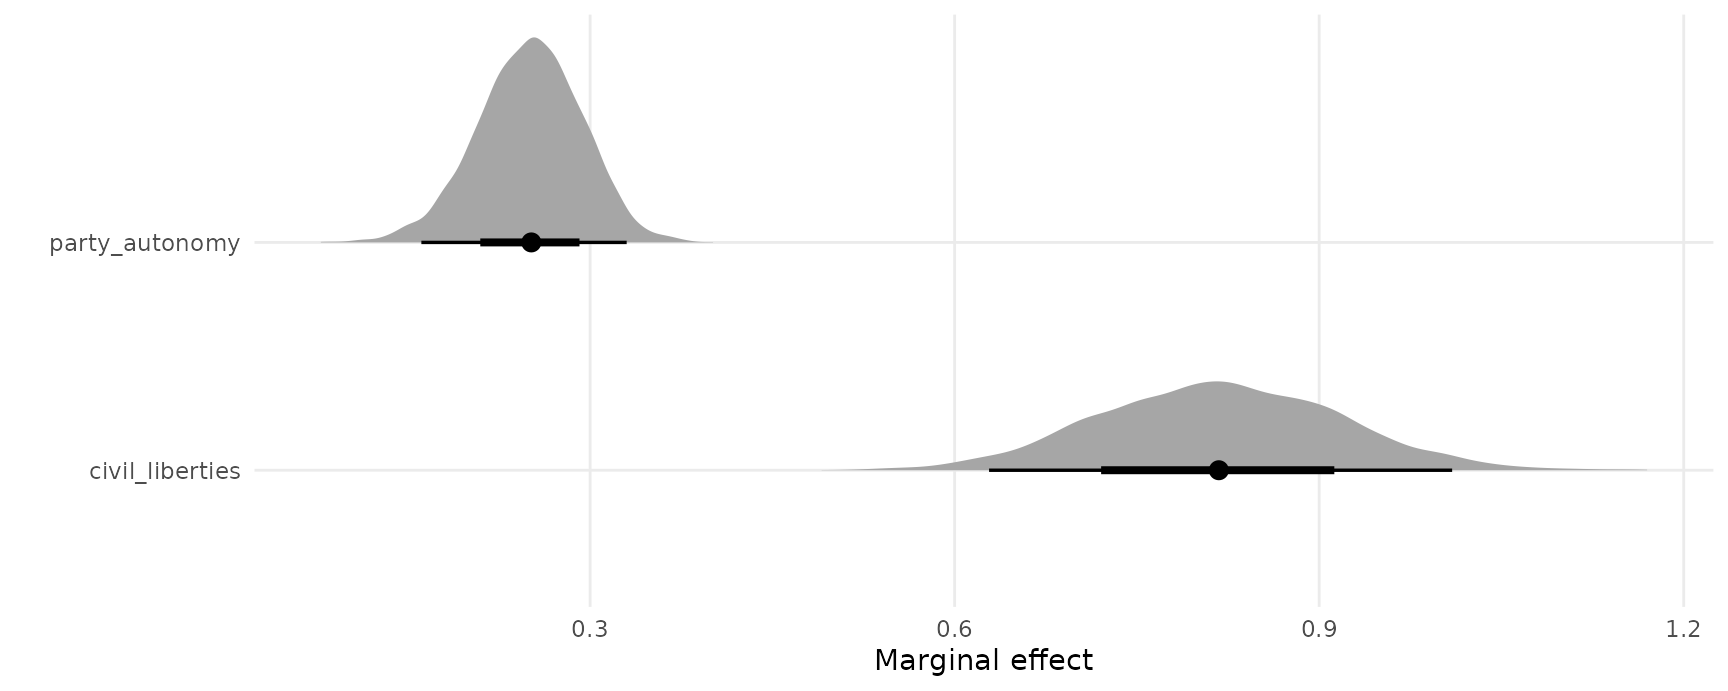
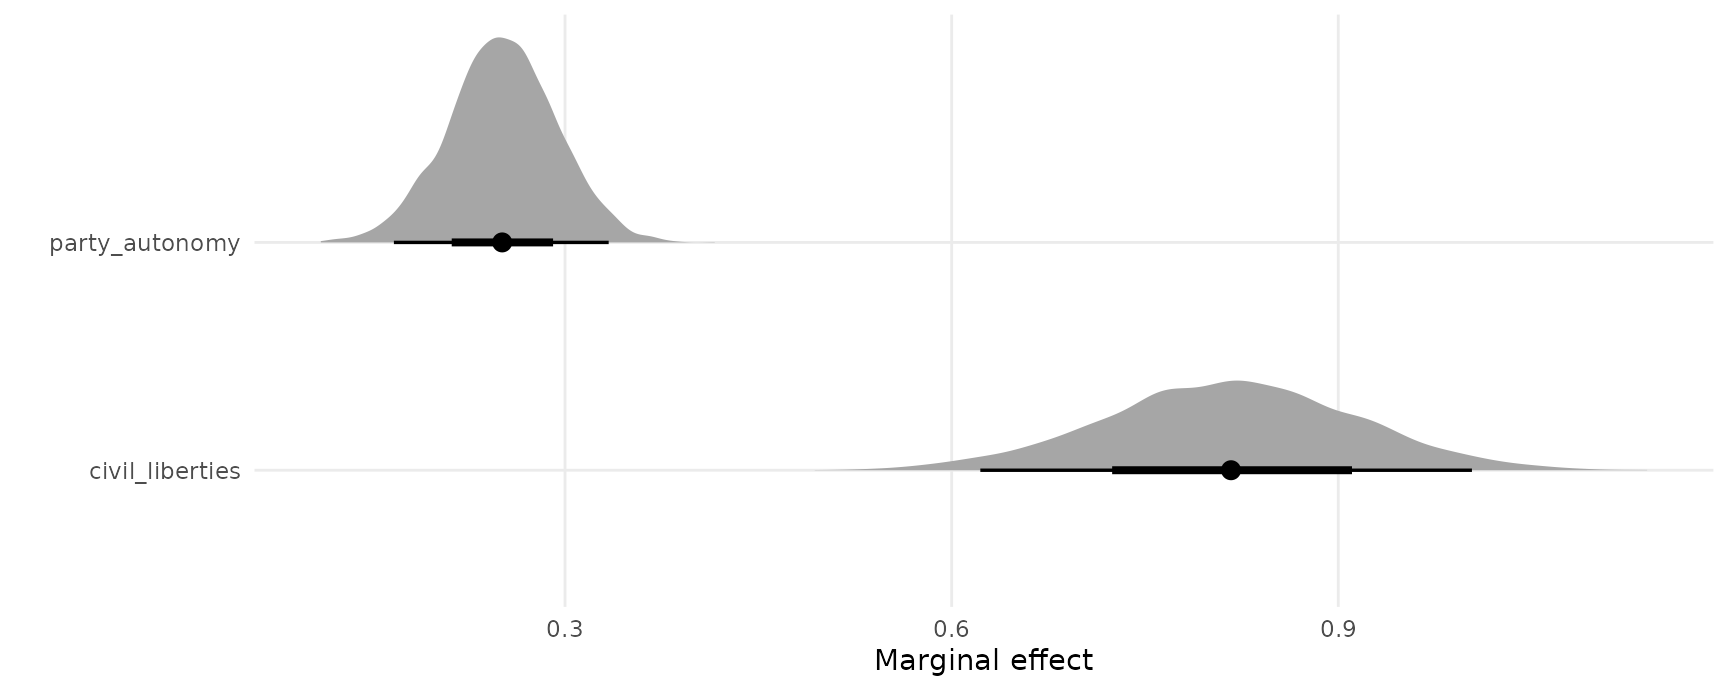
Built site for marginaleffects: 0.5.0.9000@

diff --git a/articles/brms.html b/articles/brms.html
@@ -129,12 +129,12 @@
 <code class="sourceCode R"><span class="va">pred</span> <span class="op">&lt;-</span> <span class="fu"><a href="../reference/predictions.html">predictions</a></span><span class="op">(</span><span class="va">mod</span><span class="op">)</span>
 <span class="fu"><a href="https://rdrr.io/r/utils/head.html" class="external-link">head</a></span><span class="op">(</span><span class="va">pred</span><span class="op">)</span>
 <span class="co">#&gt;   rowid     type predicted  conf.low conf.high survived woman     age</span>
-<span class="co">#&gt; 1     1 response 0.9367252 0.9048281 0.9592818        1     1 29.0000</span>
-<span class="co">#&gt; 2     2 response 0.8490403 0.7470613 0.9185068        1     0  0.9167</span>
-<span class="co">#&gt; 3     3 response 0.9427969 0.8930757 0.9710823        0     1  2.0000</span>
-<span class="co">#&gt; 4     4 response 0.5160377 0.4301996 0.5969262        0     0 30.0000</span>
-<span class="co">#&gt; 5     5 response 0.9376422 0.9062824 0.9606035        0     1 25.0000</span>
-<span class="co">#&gt; 6     6 response 0.2739226 0.2042204 0.3534595        1     0 48.0000</span>
+<span class="co">#&gt; 1     1 response 0.9371500 0.9047012 0.9592970        1     1 29.0000</span>
+<span class="co">#&gt; 2     2 response 0.8499793 0.7437888 0.9185484        1     0  0.9167</span>
+<span class="co">#&gt; 3     3 response 0.9426280 0.8933272 0.9706729        0     1  2.0000</span>
+<span class="co">#&gt; 4     4 response 0.5143200 0.4282650 0.5984488        0     0 30.0000</span>
+<span class="co">#&gt; 5     5 response 0.9379316 0.9059309 0.9601320        0     1 25.0000</span>
+<span class="co">#&gt; 6     6 response 0.2723805 0.2017168 0.3531133        1     0 48.0000</span>
 <span class="co">#&gt;   passengerClass</span>
 <span class="co">#&gt; 1            1st</span>
 <span class="co">#&gt; 2            1st</span>
@@ -153,30 +153,30 @@
                                        passengerClass <span class="op">=</span> <span class="fu"><a href="https://rdrr.io/r/base/c.html" class="external-link">c</a></span><span class="op">(</span><span class="st">"1st"</span>, <span class="st">"2nd"</span>, <span class="st">"3rd"</span><span class="op">)</span><span class="op">)</span><span class="op">)</span>
 <span class="va">pred</span>
 <span class="co">#&gt;   rowid     type  predicted  conf.low conf.high      age woman passengerClass</span>
-<span class="co">#&gt; 1     1 response 0.51776194 0.4319821 0.5986234 29.88113     0            1st</span>
-<span class="co">#&gt; 2     2 response 0.20270585 0.1523315 0.2640440 29.88113     0            2nd</span>
-<span class="co">#&gt; 3     3 response 0.08781646 0.0651538 0.1157614 29.88113     0            3rd</span>
-<span class="co">#&gt; 4     4 response 0.93655096 0.9044142 0.9590352 29.88113     1            1st</span>
-<span class="co">#&gt; 5     5 response 0.77815282 0.7105078 0.8366470 29.88113     1            2nd</span>
-<span class="co">#&gt; 6     6 response 0.57060227 0.4949431 0.6436443 29.88113     1            3rd</span></code></pre></div>
+<span class="co">#&gt; 1     1 response 0.51617924 0.4295742 0.6004757 29.88113     0            1st</span>
+<span class="co">#&gt; 2     2 response 0.20187492 0.1519437 0.2592015 29.88113     0            2nd</span>
+<span class="co">#&gt; 3     3 response 0.08721833 0.0650994 0.1160858 29.88113     0            3rd</span>
+<span class="co">#&gt; 4     4 response 0.93690410 0.9043283 0.9590046 29.88113     1            1st</span>
+<span class="co">#&gt; 5     5 response 0.77874688 0.7109523 0.8376721 29.88113     1            2nd</span>
+<span class="co">#&gt; 6     6 response 0.57145662 0.4964256 0.6464798 29.88113     1            3rd</span></code></pre></div>
 <p>The <code>posteriordraws</code> function samples from the posterior distribution of the model, and produces a data frame with <code>drawid</code> and <code>draw</code> columns.</p>
 <div class="sourceCode" id="cb8"><pre class="downlit sourceCode r">
 <code class="sourceCode R"><span class="va">pred</span> <span class="op">&lt;-</span> <span class="fu"><a href="../reference/posteriordraws.html">posteriordraws</a></span><span class="op">(</span><span class="va">pred</span><span class="op">)</span>
 <span class="fu"><a href="https://rdrr.io/r/utils/head.html" class="external-link">head</a></span><span class="op">(</span><span class="va">pred</span><span class="op">)</span>
-<span class="co">#&gt;   drawid       draw rowid     type  predicted  conf.low conf.high      age</span>
-<span class="co">#&gt; 1      1 0.49231381     1 response 0.51776194 0.4319821 0.5986234 29.88113</span>
-<span class="co">#&gt; 2      1 0.23155973     2 response 0.20270585 0.1523315 0.2640440 29.88113</span>
-<span class="co">#&gt; 3      1 0.09354266     3 response 0.08781646 0.0651538 0.1157614 29.88113</span>
-<span class="co">#&gt; 4      1 0.92010801     4 response 0.93655096 0.9044142 0.9590352 29.88113</span>
-<span class="co">#&gt; 5      1 0.78160390     5 response 0.77815282 0.7105078 0.8366470 29.88113</span>
-<span class="co">#&gt; 6      1 0.55068441     6 response 0.57060227 0.4949431 0.6436443 29.88113</span>
-<span class="co">#&gt;   woman passengerClass</span>
-<span class="co">#&gt; 1     0            1st</span>
-<span class="co">#&gt; 2     0            2nd</span>
-<span class="co">#&gt; 3     0            3rd</span>
-<span class="co">#&gt; 4     1            1st</span>
-<span class="co">#&gt; 5     1            2nd</span>
-<span class="co">#&gt; 6     1            3rd</span></code></pre></div>
+<span class="co">#&gt;   drawid      draw rowid     type  predicted  conf.low conf.high      age woman</span>
+<span class="co">#&gt; 1      1 0.6111946     1 response 0.51617924 0.4295742 0.6004757 29.88113     0</span>
+<span class="co">#&gt; 2      1 0.1899055     2 response 0.20187492 0.1519437 0.2592015 29.88113     0</span>
+<span class="co">#&gt; 3      1 0.0876311     3 response 0.08721833 0.0650994 0.1160858 29.88113     0</span>
+<span class="co">#&gt; 4      1 0.9554727     4 response 0.93690410 0.9043283 0.9590046 29.88113     1</span>
+<span class="co">#&gt; 5      1 0.7619035     5 response 0.77874688 0.7109523 0.8376721 29.88113     1</span>
+<span class="co">#&gt; 6      1 0.5673039     6 response 0.57145662 0.4964256 0.6464798 29.88113     1</span>
+<span class="co">#&gt;   passengerClass</span>
+<span class="co">#&gt; 1            1st</span>
+<span class="co">#&gt; 2            2nd</span>
+<span class="co">#&gt; 3            3rd</span>
+<span class="co">#&gt; 4            1st</span>
+<span class="co">#&gt; 5            2nd</span>
+<span class="co">#&gt; 6            3rd</span></code></pre></div>
 <p>This “long” format makes it easy to plots results:</p>
 <div class="sourceCode" id="cb9"><pre class="downlit sourceCode r">
 <code class="sourceCode R"><span class="fu"><a href="https://ggplot2.tidyverse.org/reference/ggplot.html" class="external-link">ggplot</a></span><span class="op">(</span><span class="va">pred</span>, <span class="fu"><a href="https://ggplot2.tidyverse.org/reference/aes.html" class="external-link">aes</a></span><span class="op">(</span>x <span class="op">=</span> <span class="va">draw</span>, fill <span class="op">=</span> <span class="fu"><a href="https://rdrr.io/r/base/factor.html" class="external-link">factor</a></span><span class="op">(</span><span class="va">woman</span><span class="op">)</span><span class="op">)</span><span class="op">)</span> <span class="op">+</span>
@@ -194,10 +194,10 @@
 <span class="fu"><a href="https://rdrr.io/r/base/summary.html" class="external-link">summary</a></span><span class="op">(</span><span class="va">mfx</span><span class="op">)</span>
 <span class="co">#&gt; Average marginal effects </span>
 <span class="co">#&gt;             Term  Contrast    Effect     2.5 %    97.5 %</span>
-<span class="co">#&gt; 1          woman     dY/dX  0.365749  0.334864  0.391729</span>
-<span class="co">#&gt; 2            age     dY/dX -0.005274 -0.007154 -0.003463</span>
-<span class="co">#&gt; 3 passengerClass 2nd - 1st -0.237198 -0.308113 -0.164405</span>
-<span class="co">#&gt; 4 passengerClass 3rd - 1st -0.388514 -0.453949 -0.321121</span>
+<span class="co">#&gt; 1          woman     dY/dX  0.365957  0.335860  0.392885</span>
+<span class="co">#&gt; 2            age     dY/dX -0.005263 -0.007046 -0.003437</span>
+<span class="co">#&gt; 3 passengerClass 2nd - 1st -0.236626 -0.308810 -0.164833</span>
+<span class="co">#&gt; 4 passengerClass 3rd - 1st -0.387709 -0.452755 -0.319439</span>
 <span class="co">#&gt; </span>
 <span class="co">#&gt; Model type:  brmsfit </span>
 <span class="co">#&gt; Prediction type:  response</span></code></pre></div>
@@ -207,15 +207,15 @@
                 newdata <span class="op">=</span> <span class="fu"><a href="../reference/datagrid.html">datagrid</a></span><span class="op">(</span>woman <span class="op">=</span> <span class="fl">1</span>,
                                    passengerClass <span class="op">=</span> <span class="st">"1st"</span><span class="op">)</span><span class="op">)</span>
 <span class="co">#&gt;   rowid     type           term  contrast          dydx     conf.low</span>
-<span class="co">#&gt; 1     1 response          woman     dY/dX  0.1560131703  0.110040148</span>
-<span class="co">#&gt; 2     1 response            age     dY/dX -0.0002472146 -0.001425123</span>
-<span class="co">#&gt; 3     1 response passengerClass 2nd - 1st -0.1575708352 -0.221162168</span>
-<span class="co">#&gt; 4     1 response passengerClass 3rd - 1st -0.3642499189 -0.440539622</span>
+<span class="co">#&gt; 1     1 response          woman     dY/dX  0.1555252868  0.109713700</span>
+<span class="co">#&gt; 2     1 response            age     dY/dX -0.0002104495 -0.001366159</span>
+<span class="co">#&gt; 3     1 response passengerClass 2nd - 1st -0.1567264180 -0.220522404</span>
+<span class="co">#&gt; 4     1 response passengerClass 3rd - 1st -0.3640144605 -0.435654270</span>
 <span class="co">#&gt;       conf.high      age woman passengerClass</span>
-<span class="co">#&gt; 1  0.2104078537 29.88113     1            1st</span>
-<span class="co">#&gt; 2  0.0009269324 29.88113     1            1st</span>
-<span class="co">#&gt; 3 -0.1029861386 29.88113     1            1st</span>
-<span class="co">#&gt; 4 -0.2926700934 29.88113     1            1st</span></code></pre></div>
+<span class="co">#&gt; 1  0.2113630058 29.88113     1            1st</span>
+<span class="co">#&gt; 2  0.0008577006 29.88113     1            1st</span>
+<span class="co">#&gt; 3 -0.1016726666 29.88113     1            1st</span>
+<span class="co">#&gt; 4 -0.2910300134 29.88113     1            1st</span></code></pre></div>
 <p>Compute and plot conditional marginal effects:</p>
 <div class="sourceCode" id="cb12"><pre class="downlit sourceCode r">
 <code class="sourceCode R"><span class="fu"><a href="../reference/plot_cme.html">plot_cme</a></span><span class="op">(</span><span class="va">mod</span>, effect <span class="op">=</span> <span class="st">"woman"</span>, condition <span class="op">=</span> <span class="st">"age"</span><span class="op">)</span></code></pre></div>
@@ -229,19 +229,19 @@
 
 <span class="fu"><a href="https://rdrr.io/r/utils/head.html" class="external-link">head</a></span><span class="op">(</span><span class="va">draws</span><span class="op">)</span>
 <span class="co">#&gt;   drawid       draw rowid     type  term contrast       dydx   conf.low</span>
-<span class="co">#&gt; 1      1 0.17815201     1 response woman    dY/dX 0.15272286 0.10769385</span>
-<span class="co">#&gt; 2      1 0.10158053     2 response woman    dY/dX 0.13597511 0.03704874</span>
-<span class="co">#&gt; 3      1 0.06158248     3 response woman    dY/dX 0.05885764 0.02833493</span>
-<span class="co">#&gt; 4      1 0.62018282     4 response woman    dY/dX 0.65281396 0.56510188</span>
-<span class="co">#&gt; 5      1 0.16115188     5 response woman    dY/dX 0.13791941 0.09591499</span>
-<span class="co">#&gt; 6      1 0.66822132     6 response woman    dY/dX 0.70849443 0.58806527</span>
+<span class="co">#&gt; 1      1 0.10765872     1 response woman    dY/dX 0.15226105 0.10745012</span>
+<span class="co">#&gt; 2      1 0.06669167     2 response woman    dY/dX 0.13409442 0.03564315</span>
+<span class="co">#&gt; 3      1 0.02927652     3 response woman    dY/dX 0.05865332 0.02845314</span>
+<span class="co">#&gt; 4      1 0.62387001     4 response woman    dY/dX 0.65572206 0.56499797</span>
+<span class="co">#&gt; 5      1 0.09251982     5 response woman    dY/dX 0.13766113 0.09590496</span>
+<span class="co">#&gt; 6      1 0.75806678     6 response woman    dY/dX 0.70919047 0.58704593</span>
 <span class="co">#&gt;   conf.high survived woman     age passengerClass</span>
-<span class="co">#&gt; 1 0.2061623        1     1 29.0000            1st</span>
-<span class="co">#&gt; 2 0.2946344        1     0  0.9167            1st</span>
-<span class="co">#&gt; 3 0.1009658        0     1  2.0000            1st</span>
-<span class="co">#&gt; 4 0.7383854        0     0 30.0000            1st</span>
-<span class="co">#&gt; 5 0.1889267        0     1 25.0000            1st</span>
-<span class="co">#&gt; 6 0.8384889        1     0 48.0000            1st</span></code></pre></div>
+<span class="co">#&gt; 1 0.2073076        1     1 29.0000            1st</span>
+<span class="co">#&gt; 2 0.2952530        1     0  0.9167            1st</span>
+<span class="co">#&gt; 3 0.1024378        0     1  2.0000            1st</span>
+<span class="co">#&gt; 4 0.7412013        0     0 30.0000            1st</span>
+<span class="co">#&gt; 5 0.1896222        0     1 25.0000            1st</span>
+<span class="co">#&gt; 6 0.8480312        1     0 48.0000            1st</span></code></pre></div>
 <p>We can use this dataset to plot our results. For example, to plot the posterior density of the marginal effect of <code>age</code> when the <code>woman</code> variable is equal to 0 or 1:</p>
 <div class="sourceCode" id="cb14"><pre class="downlit sourceCode r">
 <code class="sourceCode R"><span class="va">mfx</span> <span class="op">&lt;-</span> <span class="fu"><a href="../reference/marginaleffects.html">marginaleffects</a></span><span class="op">(</span><span class="va">mod</span>,
@@ -327,8 +327,8 @@
                                           region <span class="op">=</span> <span class="st">"Middle East and North Africa"</span><span class="op">)</span><span class="op">)</span>
 <span class="va">mfx</span>
 <span class="co">#&gt;   rowid     type            term     contrast      dydx  conf.low conf.high</span>
-<span class="co">#&gt; 1     1 response  party_autonomy TRUE - FALSE 0.2516208 0.1611319 0.3300857</span>
-<span class="co">#&gt; 2     1 response civil_liberties        dY/dX 0.8174404 0.6283387 1.0094353</span>
+<span class="co">#&gt; 1     1 response  party_autonomy TRUE - FALSE 0.2512433 0.1672121 0.3338653</span>
+<span class="co">#&gt; 2     1 response civil_liberties        dY/dX 0.8167668 0.6222457 1.0036927</span>
 <span class="co">#&gt;   party_autonomy civil_liberties                       region</span>
 <span class="co">#&gt; 1           TRUE             0.5 Middle East and North Africa</span>
 <span class="co">#&gt; 2           TRUE             0.5 Middle East and North Africa</span></code></pre></div>
@@ -373,9 +373,9 @@
                        variables <span class="op">=</span> <span class="st">"civil_liberties"</span><span class="op">)</span>
 <span class="va">mfx</span>
 <span class="co">#&gt;   rowid     type            term      dydx  conf.low conf.high civil_liberties</span>
-<span class="co">#&gt; 1     1 response civil_liberties 0.4890631 0.3634769 0.6389788             0.2</span>
-<span class="co">#&gt; 2     2 response civil_liberties 0.8096873 0.6162626 0.9995994             0.5</span>
-<span class="co">#&gt; 3     3 response civil_liberties 0.8079569 0.6828818 0.9346768             0.8</span>
+<span class="co">#&gt; 1     1 response civil_liberties 0.4892086 0.3587535 0.6399426             0.2</span>
+<span class="co">#&gt; 2     2 response civil_liberties 0.8064305 0.6149217 0.9931094             0.5</span>
+<span class="co">#&gt; 3     3 response civil_liberties 0.8070545 0.6757561 0.9315960             0.8</span>
 <span class="co">#&gt;   party_autonomy                       region</span>
 <span class="co">#&gt; 1          FALSE Middle East and North Africa</span>
 <span class="co">#&gt; 2          FALSE Middle East and North Africa</span>
@@ -543,12 +543,12 @@
 
 <span class="fu"><a href="https://rdrr.io/r/utils/head.html" class="external-link">head</a></span><span class="op">(</span><span class="va">pred</span><span class="op">)</span>
 <span class="co">#&gt;   rowid     type group  predicted   conf.low  conf.high depvar  ic.gc  oc.gc</span>
-<span class="co">#&gt; 1     1 response    ec 0.06627955 0.04556403 0.09216288     gc 866.00 199.69</span>
-<span class="co">#&gt; 2     2 response    ec 0.07645713 0.05966059 0.09635494     gc 727.93 168.66</span>
-<span class="co">#&gt; 3     3 response    ec 0.10335731 0.06416129 0.16016397     gc 599.48 165.58</span>
-<span class="co">#&gt; 4     4 response    ec 0.06325064 0.04607433 0.08300154     er 835.17 180.88</span>
-<span class="co">#&gt; 5     5 response    ec 0.07450955 0.05829073 0.09314505     er 755.59 174.91</span>
-<span class="co">#&gt; 6     6 response    ec 0.07069114 0.04480994 0.10516326     gc 666.11 135.67</span></code></pre></div>
+<span class="co">#&gt; 1     1 response    ec 0.06695031 0.04657629 0.09371913     gc 866.00 199.69</span>
+<span class="co">#&gt; 2     2 response    ec 0.07712431 0.05960573 0.09805590     gc 727.93 168.66</span>
+<span class="co">#&gt; 3     3 response    ec 0.10437043 0.06387718 0.16108016     gc 599.48 165.58</span>
+<span class="co">#&gt; 4     4 response    ec 0.06349413 0.04672466 0.08467615     er 835.17 180.88</span>
+<span class="co">#&gt; 5     5 response    ec 0.07490784 0.05826726 0.09479708     er 755.59 174.91</span>
+<span class="co">#&gt; 6     6 response    ec 0.07128884 0.04561341 0.10335509     gc 666.11 135.67</span></code></pre></div>
 <p>Extract posterior draws and plot them:</p>
 <div class="sourceCode" id="cb34"><pre class="downlit sourceCode r">
 <code class="sourceCode R"><span class="va">draws</span> <span class="op">&lt;-</span> <span class="fu"><a href="../reference/posteriordraws.html">posteriordraws</a></span><span class="op">(</span><span class="va">pred</span><span class="op">)</span>
@@ -574,16 +574,16 @@
 <span class="fu"><a href="https://rdrr.io/r/base/summary.html" class="external-link">summary</a></span><span class="op">(</span><span class="va">mfx</span><span class="op">)</span>
 <span class="co">#&gt; Average marginal effects </span>
 <span class="co">#&gt;    Group  Term     Effect      2.5 %    97.5 %</span>
-<span class="co">#&gt; 1     ec ic.gc -1.834e-04 -4.032e-04 2.296e-05</span>
-<span class="co">#&gt; 2     ec oc.gc  4.956e-04 -4.399e-04 1.456e-03</span>
-<span class="co">#&gt; 3     er ic.gc  1.170e-05 -2.169e-04 2.462e-04</span>
-<span class="co">#&gt; 4     er oc.gc -1.011e-03 -2.078e-03 3.499e-05</span>
-<span class="co">#&gt; 5     gc ic.gc  1.675e-05 -3.700e-04 4.119e-04</span>
-<span class="co">#&gt; 6     gc oc.gc  1.040e-03 -7.091e-04 2.793e-03</span>
-<span class="co">#&gt; 7     gr ic.gc  4.303e-05 -2.458e-04 3.250e-04</span>
-<span class="co">#&gt; 8     gr oc.gc  8.040e-05 -1.175e-03 1.363e-03</span>
-<span class="co">#&gt; 9     hp ic.gc  1.119e-04 -7.122e-05 3.033e-04</span>
-<span class="co">#&gt; 10    hp oc.gc -6.049e-04 -1.425e-03 1.976e-04</span>
+<span class="co">#&gt; 1     ec ic.gc -1.849e-04 -0.0004048 2.399e-05</span>
+<span class="co">#&gt; 2     ec oc.gc  5.074e-04 -0.0004293 1.449e-03</span>
+<span class="co">#&gt; 3     er ic.gc  1.685e-05 -0.0002175 2.459e-04</span>
+<span class="co">#&gt; 4     er oc.gc -1.022e-03 -0.0020596 2.012e-05</span>
+<span class="co">#&gt; 5     gc ic.gc  1.488e-05 -0.0003701 4.077e-04</span>
+<span class="co">#&gt; 6     gc oc.gc  1.031e-03 -0.0006976 2.713e-03</span>
+<span class="co">#&gt; 7     gr ic.gc  4.455e-05 -0.0002415 3.243e-04</span>
+<span class="co">#&gt; 8     gr oc.gc  7.947e-05 -0.0011584 1.356e-03</span>
+<span class="co">#&gt; 9     hp ic.gc  1.086e-04 -0.0000738 2.975e-04</span>
+<span class="co">#&gt; 10    hp oc.gc -5.956e-04 -0.0014276 2.169e-04</span>
 <span class="co">#&gt; </span>
 <span class="co">#&gt; Model type:  brmsfit </span>
 <span class="co">#&gt; Prediction type:  response</span></code></pre></div>

diff --git a/articles/multiple_imputation.html b/articles/multiple_imputation.html
@@ -125,7 +125,7 @@
 
 <span class="fu"><a href="https://rdrr.io/r/base/summary.html" class="external-link">summary</a></span><span class="op">(</span><span class="va">mod_imputation</span><span class="op">)</span>
 <span class="co">#&gt;   term    estimate  std.error statistic       df      p.value</span>
-<span class="co">#&gt; 1   hp -0.06608249 0.01133772 -5.828551 29.04181 2.538428e-06</span></code></pre></div>
+<span class="co">#&gt; 1   hp -0.06530548 0.01142997 -5.713532 28.31388 3.813206e-06</span></code></pre></div>
 <p>We can compare this with what the model would have looked like without any missing data. The estimates are very similar (within one standard error) and the p-value for the imputed models is slightly higher than the full model (as expected).</p>
 <div class="sourceCode" id="cb5"><pre class="downlit sourceCode r">
 <code class="sourceCode R"><span class="va">mod_missing</span> <span class="op">&lt;-</span> <span class="fu"><a href="https://rdrr.io/r/stats/lm.html" class="external-link">lm</a></span><span class="op">(</span><span class="va">mpg</span> <span class="op">~</span> <span class="va">hp</span>, data <span class="op">=</span> <span class="va">dat</span><span class="op">)</span>
@@ -165,7 +165,7 @@ hp
 −0.068
 </td>
 <td style="text-align:center;">
-−0.066
+−0.065
 </td>
 </tr>
 <tr>
@@ -218,7 +218,7 @@ R2
 0.602
 </td>
 <td style="text-align:center;">
-0.542
+0.538
 </td>
 </tr>
 <tr>
@@ -232,7 +232,7 @@ R2 Adj.
 0.589
 </td>
 <td style="text-align:center;">
-0.527
+0.522
 </td>
 </tr>
 <tr>
@@ -316,7 +316,7 @@ RMSE
 
 <span class="fu"><a href="https://rdrr.io/r/base/summary.html" class="external-link">summary</a></span><span class="op">(</span><span class="va">mod_imputation</span><span class="op">)</span>
 <span class="co">#&gt;   term  estimate std.error statistic       df    p.value</span>
-<span class="co">#&gt; 1  cyl -9.241542   2.83017 -3.265366 7.743832 0.01195775</span></code></pre></div>
+<span class="co">#&gt; 1  cyl -9.195601  2.801111  -3.28284 7.944797 0.01124778</span></code></pre></div>
 <p>One hack to work around this limitation is to assign a custom class to the object and to create a custom <code>tidy</code> method that combines the <code>term</code> and <code>contrast</code> columns:</p>
 <div class="sourceCode" id="cb8"><pre class="downlit sourceCode r">
 <code class="sourceCode R"><span class="va">fit_reg</span> <span class="op">&lt;-</span> <span class="kw">function</span><span class="op">(</span><span class="va">dat</span><span class="op">)</span> <span class="op">{</span>
@@ -339,8 +339,8 @@ RMSE
 
 <span class="fu"><a href="https://rdrr.io/r/base/summary.html" class="external-link">summary</a></span><span class="op">(</span><span class="va">mod_imputation</span><span class="op">)</span>
 <span class="co">#&gt;        term   estimate std.error statistic       df      p.value</span>
-<span class="co">#&gt; 1 cyl 6 - 4  -6.954935  1.749075 -3.976351 26.12546 4.937935e-04</span>
-<span class="co">#&gt; 2 cyl 8 - 4 -11.528149  1.410751 -8.171639 28.28499 6.278904e-09</span></code></pre></div>
+<span class="co">#&gt; 1 cyl 6 - 4  -6.955779  1.779306 -3.909264 25.17826 6.190432e-04</span>
+<span class="co">#&gt; 2 cyl 8 - 4 -11.435422  1.416441 -8.073350 28.20051 8.183725e-09</span></code></pre></div>
 </div>
 <div class="section level2">
 <h2 id="logistic-regression-with-mice">Logistic Regression with <code>mice</code><a class="anchor" aria-label="anchor" href="#logistic-regression-with-mice"></a>
@@ -358,8 +358,8 @@ RMSE
 <span class="va">mod_imputation</span> <span class="op">&lt;-</span> <span class="fu"><a href="https://amices.org/mice/reference/pool.html" class="external-link">pool</a></span><span class="op">(</span><span class="va">mod_imputation</span><span class="op">)</span>
 
 <span class="fu"><a href="https://rdrr.io/r/base/summary.html" class="external-link">summary</a></span><span class="op">(</span><span class="va">mod_imputation</span><span class="op">)</span>
-<span class="co">#&gt;   term   estimate   std.error statistic       df      p.value</span>
-<span class="co">#&gt; 1  mpg 0.04884122 0.009387391  5.202854 27.10534 1.746933e-05</span></code></pre></div>
+<span class="co">#&gt;   term  estimate  std.error statistic       df      p.value</span>
+<span class="co">#&gt; 1  mpg 0.0501091 0.01025224  4.887625 22.70396 6.374454e-05</span></code></pre></div>
 <p>Again, we can compare this with what the model would have looked like without any missing data. The estimates, again, are very similar (within one standard error) and the p-value for the imputed models is slightly higher than the full model (as expected).</p>
 <div class="sourceCode" id="cb11"><pre class="downlit sourceCode r">
 <code class="sourceCode R"><span class="va">mod_missing</span> <span class="op">&lt;-</span> <span class="fu"><a href="https://rdrr.io/r/stats/glm.html" class="external-link">glm</a></span><span class="op">(</span><span class="va">am</span> <span class="op">~</span> <span class="va">mpg</span>, data <span class="op">=</span> <span class="va">dat</span>, family <span class="op">=</span> <span class="va">binomial</span><span class="op">)</span>
@@ -399,7 +399,7 @@ mpg
 0.046
 </td>
 <td style="text-align:center;">
-0.049
+0.050
 </td>
 </tr>
 <tr>
@@ -412,7 +412,7 @@ mpg
 (0.009)
 </td>
 <td style="text-align:center;box-shadow: 0px 1px">
-(0.009)
+(0.010)
 </td>
 </tr>
 <tr>

diff --git a/articles/hypothesis.html b/articles/hypothesis.html
@@ -511,13 +511,13 @@
     variable.name <span class="op">=</span> <span class="st">"time"</span>,
     id.vars <span class="op">=</span> <span class="fu"><a href="https://rdrr.io/r/base/c.html" class="external-link">c</a></span><span class="op">(</span><span class="st">"id"</span>, <span class="st">"trt"</span><span class="op">)</span><span class="op">)</span>
 <span class="fu"><a href="https://rdrr.io/r/utils/head.html" class="external-link">head</a></span><span class="op">(</span><span class="va">did</span><span class="op">)</span>
-<span class="co">#&gt;    id trt time          y</span>
-<span class="co">#&gt; 1:  1   0  pre -0.5432188</span>
-<span class="co">#&gt; 2:  2   0  pre -0.1188554</span>
-<span class="co">#&gt; 3:  3   1  pre  0.1583873</span>
-<span class="co">#&gt; 4:  4   0  pre  3.4384191</span>
-<span class="co">#&gt; 5:  5   1  pre -0.9399195</span>
-<span class="co">#&gt; 6:  6   0  pre  1.4243750</span></code></pre></div>
+<span class="co">#&gt;    id trt time         y</span>
+<span class="co">#&gt; 1:  1   1  pre 0.1993395</span>
+<span class="co">#&gt; 2:  2   0  pre 1.5246966</span>
+<span class="co">#&gt; 3:  3   0  pre 0.8423154</span>
+<span class="co">#&gt; 4:  4   0  pre 1.0542991</span>
+<span class="co">#&gt; 5:  5   0  pre 0.1684015</span>
+<span class="co">#&gt; 6:  6   1  pre 0.6803856</span></code></pre></div>
 <p>Then, we estimate a linear model with a multiple interaction between the time and the treatment indicators. We alco compute contrasts at the mean for each treatment level:</p>
 <div class="sourceCode" id="cb37"><pre class="downlit sourceCode r">
 <code class="sourceCode R"><span class="va">did_model</span> <span class="op">&lt;-</span> <span class="fu"><a href="https://rdrr.io/r/stats/lm.html" class="external-link">lm</a></span><span class="op">(</span><span class="va">y</span> <span class="op">~</span> <span class="va">time</span> <span class="op">*</span> <span class="va">trt</span>, data <span class="op">=</span> <span class="va">did</span><span class="op">)</span>
@@ -527,11 +527,11 @@
     newdata <span class="op">=</span> <span class="fu"><a href="../reference/datagrid.html">datagrid</a></span><span class="op">(</span>trt <span class="op">=</span> <span class="fl">0</span><span class="op">:</span><span class="fl">1</span><span class="op">)</span>,
     variables <span class="op">=</span> <span class="st">"time"</span><span class="op">)</span>
 <span class="co">#&gt;   rowid     type        term contrast_time comparison  std.error statistic</span>
-<span class="co">#&gt; 1     1 response interaction    post - pre 0.02213497 0.07866643 0.2813776</span>
-<span class="co">#&gt; 2     2 response interaction    post - pre 0.29648569 0.08138814 3.6428609</span>
-<span class="co">#&gt;        p.value   conf.low conf.high time trt</span>
-<span class="co">#&gt; 1 0.7784207648 -0.1320484 0.1763183  pre   0</span>
-<span class="co">#&gt; 2 0.0002696246  0.1369679 0.4560035  pre   1</span></code></pre></div>
+<span class="co">#&gt; 1     1 response interaction    post - pre 0.01222985 0.07874029 0.1553188</span>
+<span class="co">#&gt; 2     2 response interaction    post - pre 0.20233504 0.07937275 2.5491752</span>
+<span class="co">#&gt;      p.value    conf.low conf.high time trt</span>
+<span class="co">#&gt; 1 0.87656996 -0.14209827 0.1665580  pre   0</span>
+<span class="co">#&gt; 2 0.01079781  0.04676731 0.3579028  pre   1</span></code></pre></div>
 <p>Finally, we compute pairwise differences between contrasts. This is the Diff-in-Diff estimate:</p>
 <div class="sourceCode" id="cb38"><pre class="downlit sourceCode r">
 <code class="sourceCode R"><span class="fu"><a href="../reference/comparisons.html">comparisons</a></span><span class="op">(</span>
@@ -539,10 +539,10 @@
     variables <span class="op">=</span> <span class="st">"time"</span>,
     newdata <span class="op">=</span> <span class="fu"><a href="../reference/datagrid.html">datagrid</a></span><span class="op">(</span>trt <span class="op">=</span> <span class="fl">0</span><span class="op">:</span><span class="fl">1</span><span class="op">)</span>,
     hypothesis <span class="op">=</span> <span class="st">"pairwise"</span><span class="op">)</span>
-<span class="co">#&gt;       type          term comparison std.error statistic    p.value  conf.low</span>
-<span class="co">#&gt; 1 response Row 2 - Row 1  0.2743507  0.113192  2.423763 0.01536061 0.0524984</span>
+<span class="co">#&gt;       type          term comparison std.error statistic    p.value    conf.low</span>
+<span class="co">#&gt; 1 response Row 2 - Row 1  0.1901052 0.1118037  1.700348 0.08906548 -0.02902602</span>
 <span class="co">#&gt;   conf.high</span>
-<span class="co">#&gt; 1  0.496203</span></code></pre></div>
+<span class="co">#&gt; 1 0.4092364</span></code></pre></div>
 </div>
   </div>
 

diff --git a/articles/marginaleffects.html b/articles/marginaleffects.html
@@ -388,11 +388,11 @@
     <span class="fu"><a href="https://dplyr.tidyverse.org/reference/mutate.html" class="external-link">mutate</a></span><span class="op">(</span>truth <span class="op">=</span> <span class="fl">1</span> <span class="op">+</span> <span class="fl">4</span> <span class="op">*</span> <span class="va">x</span><span class="op">)</span> <span class="op"><a href="https://magrittr.tidyverse.org/reference/pipe.html" class="external-link">%&gt;%</a></span>
     <span class="fu"><a href="https://dplyr.tidyverse.org/reference/select.html" class="external-link">select</a></span><span class="op">(</span><span class="va">dydx</span>, <span class="va">truth</span><span class="op">)</span>
 <span class="co">#&gt;        dydx truth</span>
-<span class="co">#&gt; 1 -6.996675    -7</span>
-<span class="co">#&gt; 2 -2.996952    -3</span>
-<span class="co">#&gt; 3  1.002772     1</span>
-<span class="co">#&gt; 4  5.002495     5</span>
-<span class="co">#&gt; 5  9.002219     9</span></code></pre></div>
+<span class="co">#&gt; 1 -6.987730    -7</span>
+<span class="co">#&gt; 2 -2.991457    -3</span>
+<span class="co">#&gt; 3  1.004815     1</span>
+<span class="co">#&gt; 4  5.001087     5</span>
+<span class="co">#&gt; 5  8.997359     9</span></code></pre></div>
 <p>We can plot conditional adjusted predictions with <code>plot_cap</code> function:</p>
 <div class="sourceCode" id="cb17"><pre class="downlit sourceCode r">
 <code class="sourceCode R"><span class="fu"><a href="../reference/plot_cap.html">plot_cap</a></span><span class="op">(</span><span class="va">mod</span>, condition <span class="op">=</span> <span class="st">"x"</span><span class="op">)</span></code></pre></div>

diff --git a/articles/gformula.html b/articles/gformula.html
@@ -287,7 +287,7 @@
     check.names <span class="op">=</span> <span class="cn">FALSE</span><span class="op">)</span>
 <span class="va">bootstrap</span></code></pre></div>
 <pre><code><span class="co">##                            estimate std.error conf.low conf.high</span>
-<span class="co">## 1 Treatment - No Treatment 3.517374 0.4951903 2.546819  4.487929</span></code></pre>
+<span class="co">## 1 Treatment - No Treatment 3.517374 0.4745737 2.587227  4.447522</span></code></pre>
 <p>The results are close to those that we obtained with <code><a href="../reference/comparisons.html">comparisons()</a></code>, but the confidence interval differs slightly because of the difference between bootstraping and the delta method.</p>
 <div class="sourceCode" id="cb21"><pre class="downlit sourceCode r">
 <code class="sourceCode R"><span class="fu"><a href="https://rdrr.io/r/base/summary.html" class="external-link">summary</a></span><span class="op">(</span><span class="va">cmp</span><span class="op">)</span></code></pre></div>
